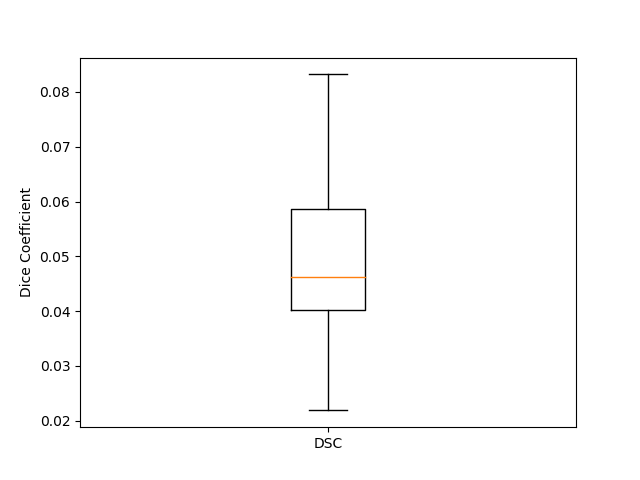
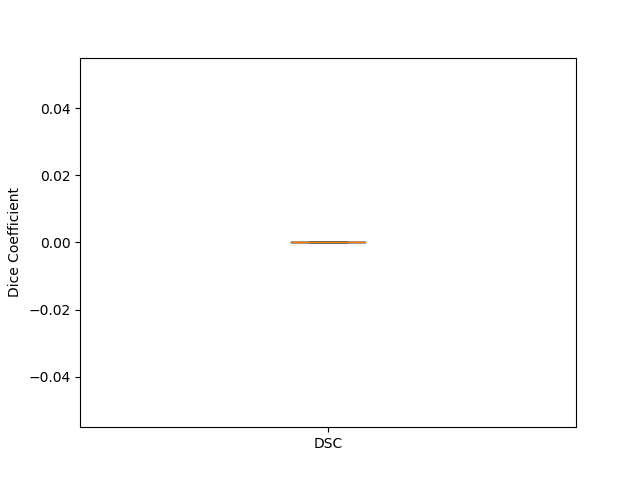
Updates to run CT2 data
Should be updated to run as a command line app. Will make it easier to
deploy in docker.

diff --git a/run_prediction.py b/run_prediction.py
@@ -34,14 +34,18 @@ from unet3d.prediction2D import run_validation_case
 from unet3d.metrics import (dice_coefficient, dice_coefficient_loss, dice_coef, dice_coef_loss,dice_coefficient_monitor,
                             weighted_dice_coefficient_loss_2D, weighted_dice_coefficient_2D)
 
+import tensorflow as tf
+sess = tf.Session()
+
+
 config = dict()
 
 # General Parameters
 
-config["data_file"] = "j.h5"
+config["data_file"] = "CT2_part.h5"
 config["model_images"] = "Unet2DBN_muscle_wdscloss.h5"
-config['prediction_folder'] = 'j'
-config["testing_split"] = 'validation_0.2' +'.pkl'
+config['prediction_folder'] = 'CT2_norm'
+config["testing_split"] = 'validation_norm_1.0' +'.pkl'
 
 
 
@@ -63,7 +67,7 @@ config["test_model"] = config["model_images"]
 
 config["batch_size"] = 5
 config["validation_batch_size"] = config['batch_size']
-config["GPU"] = 0
+config["GPU"] = 1
 config["CPU"] = 4
 config['patch_shape'] = None
 config['skip_blank'] = False
@@ -75,7 +79,7 @@ config["training_modalities"] = config["all_modalities"]
 config["threshold"] = 0.5
 config["problem_type"] = "Segmentation"
 
- 
+
 def main(overwrite=False):
      # Step 1: Check if training type is defined
     try:

diff --git a/pickling.py b/pickling.py
@@ -31,14 +31,14 @@ config["n_channels"] = len(config["training_modalities"])
 config["input_shape"] = tuple([config["n_channels"]] + list(config["image_shape"]))
 
 ##
-config["data_file"] = "CT2_179PTS.h5"
+config["data_file"] = "CT2_test.h5"
 config["model_images"] = "CT2_Unet2DBN_muscle_wdscloss.h5"
 config["training_model"] = config["model_images"]
 
 config["monitor"] = 'output'
 config["data_split"] = 0.0
-config["training_split"] = "training_" + str(round(config["data_split"],2)) + '.pkl'
-config["validation_split"] = "validation_" + str(round(1-config["data_split"],2)) + '.pkl'
+config["training_split"] = "training_norm_" + str(round(config["data_split"],2)) + '.pkl'
+config["validation_split"] = "validation_norm_" + str(round(1-config["data_split"],2)) + '.pkl'
 
 # config['GPU'] = 1
 # config['CPU'] = 12

diff --git a/run_preprocess.py b/run_preprocess.py
@@ -14,12 +14,12 @@ config = dict()
 ##
 config["input_type"] = "Image"
 config["input_shape"] = (256,256)
-config["input_images"] = "ImageData_CT"
+config["input_images"] = "ImageData_CT2_preprocessed"
 config["image_format"] = "TIF" # or "NIFTI"
 config["slice_number"] = 0 # Use this if you have a stacked TIF and want only one slice for 2D problems.
                            # slice number goes from 0 to length of Stack
 
-config["output_file"] = "j.h5"
+config["output_file"] = "CT2_test.h5"
 
 config["overwrite"] = 1
 config["problem_type"] = "Segmentation"

diff --git a/unet3d/normalize.py b/unet3d/normalize.py
@@ -108,6 +108,11 @@ def normalize_data_storage_2D(data_storage):
         
     mean = np.asarray(means).mean(axis=0)
     std = np.asarray(stds).mean(axis=0)
+
+    # mean = np.array([835.02814])
+    # std = np.array([980.8535])
+    print(f'Normalization mean: {mean}, std: {std}')
+
     for index in range(data_storage.shape[0]):
         data_storage[index] = normalize_data_2D(data_storage[index], mean, std)
         if index == 0:

diff --git a/run_evaluation_onTIF.py b/run_evaluation_onTIF.py
@@ -11,10 +11,10 @@ import matplotlib.pyplot as plt
 
 
 config = dict()
-config['input_dir'] = 'predictions/j'
+config['input_dir'] = 'predictions/CT2_norm'
 config['truth_img'] = 'truth'
 config['prediction_img'] = 'prediction'
-config['output_file'] = 'CT_2_DSC.csv'
+config['output_file'] = 'CT2_norm_score.csv'
 
 
 
